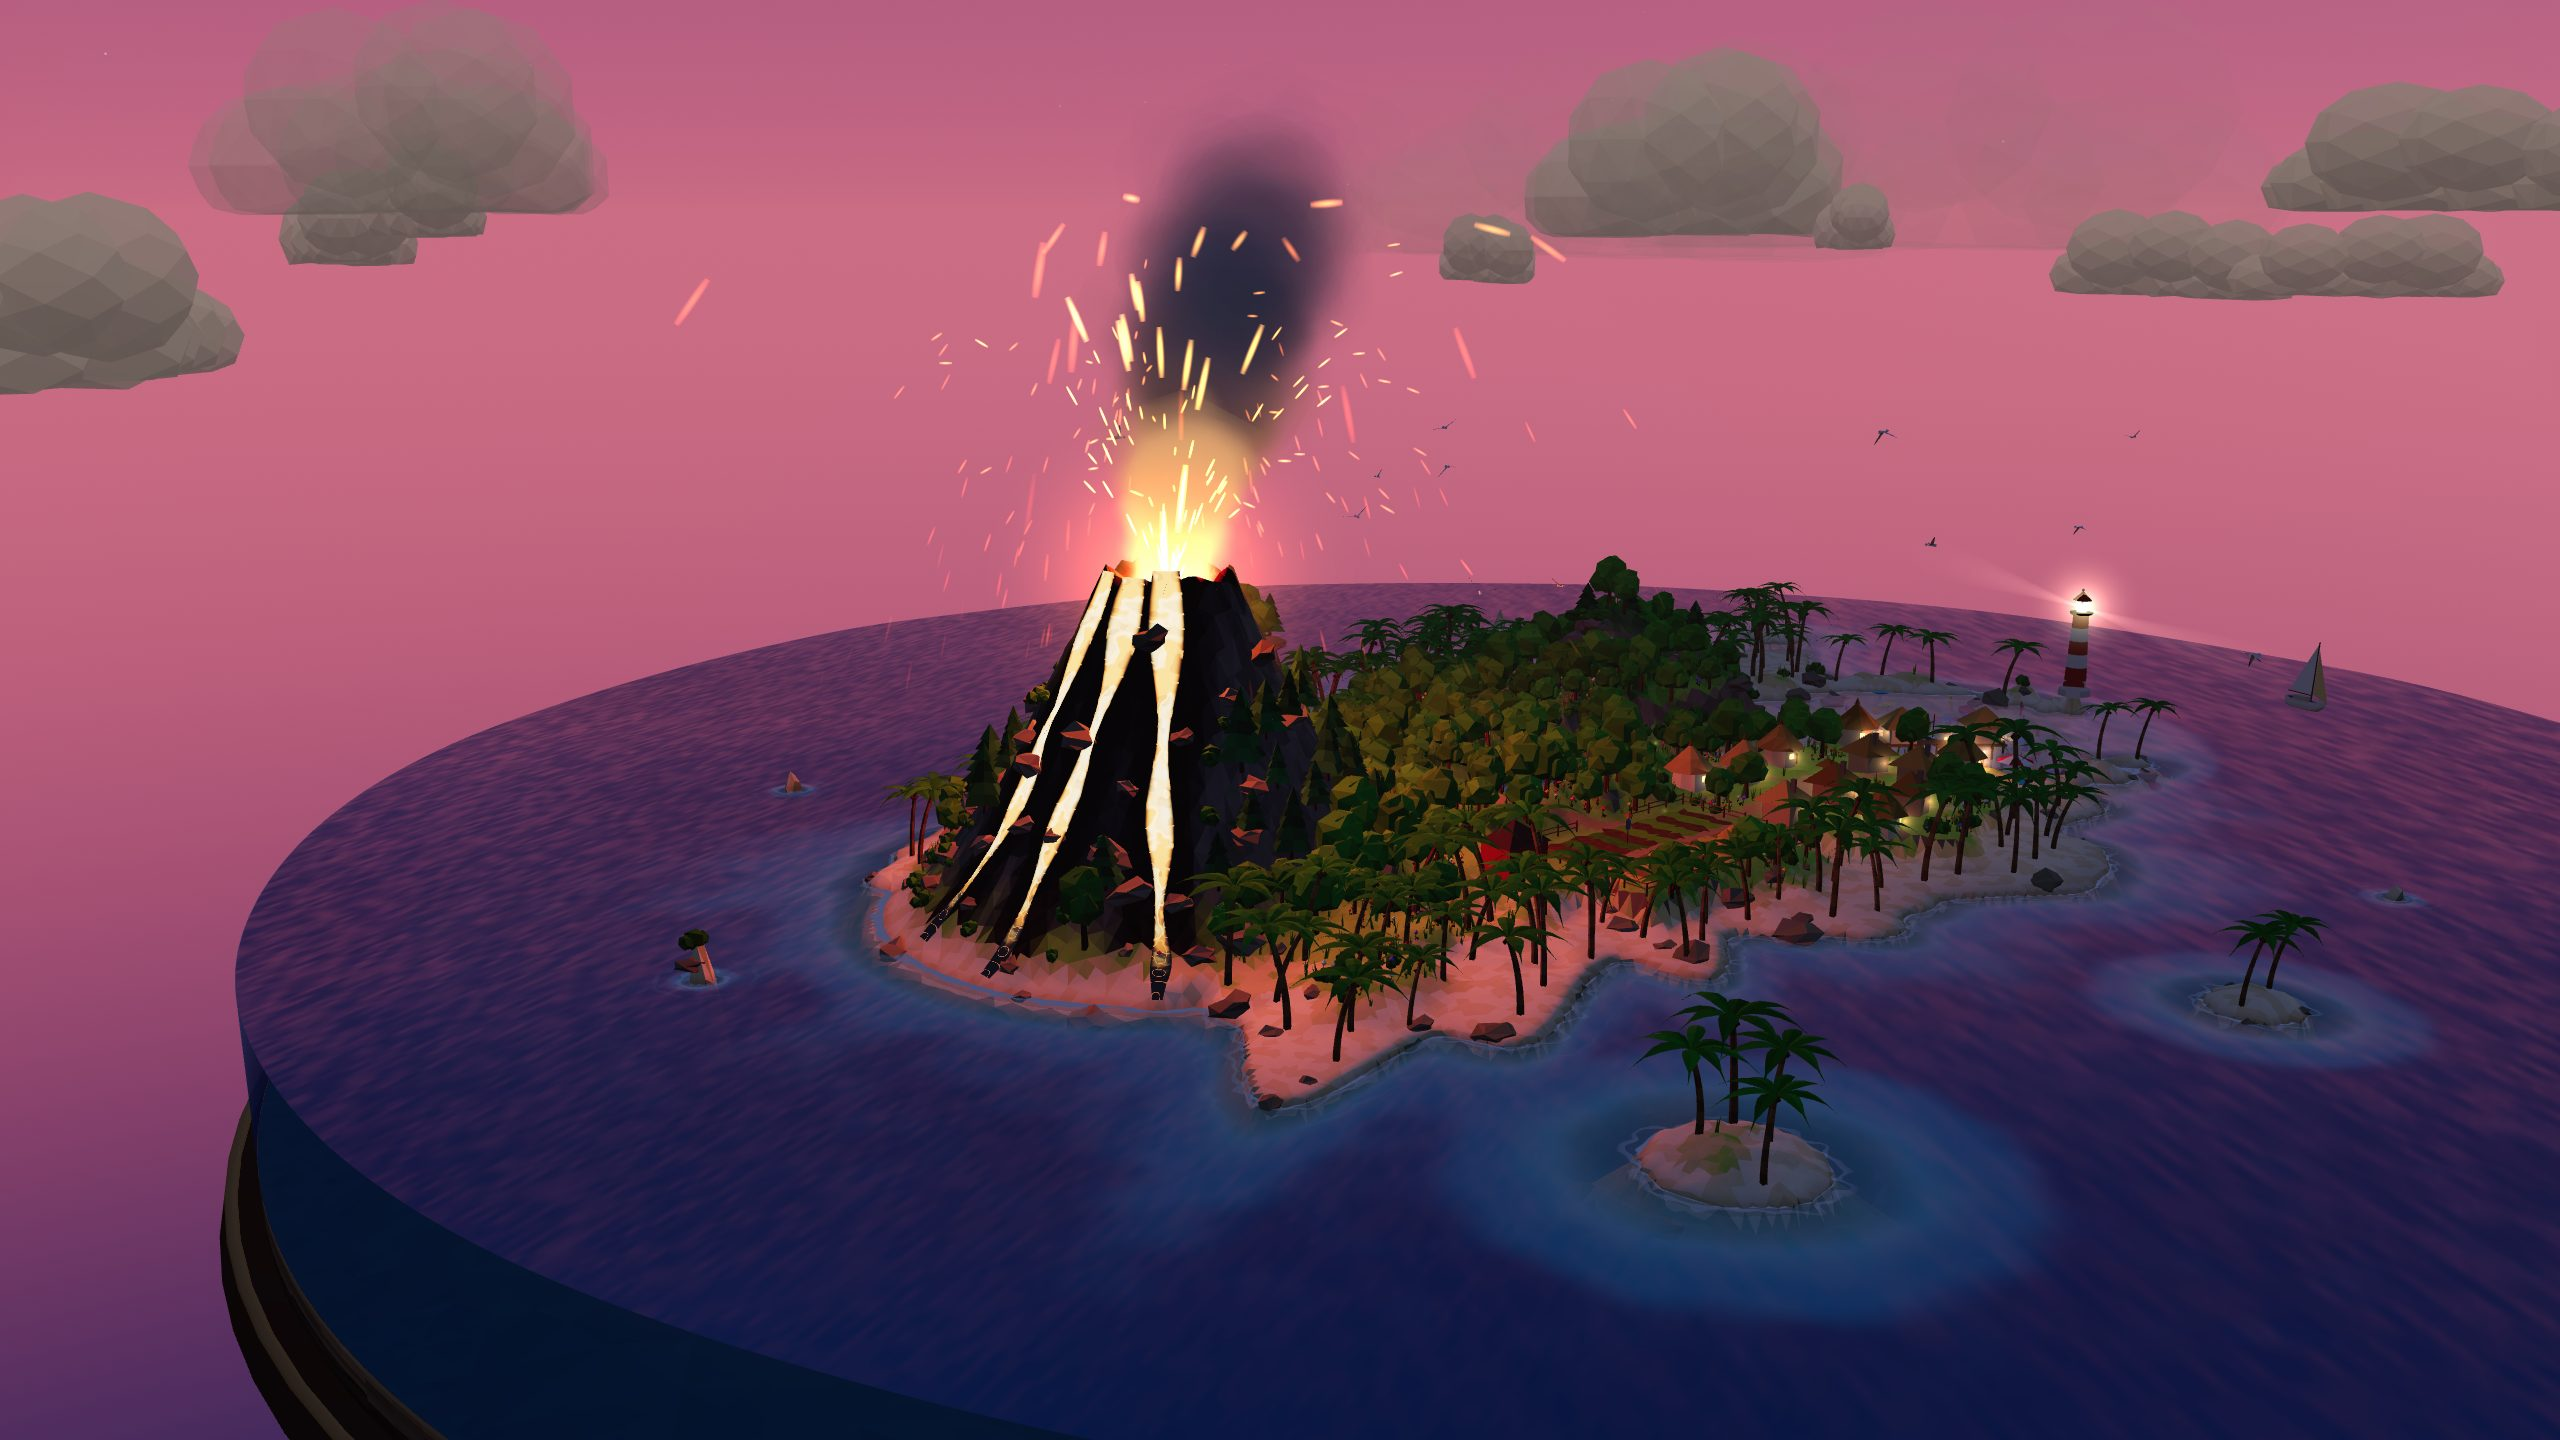
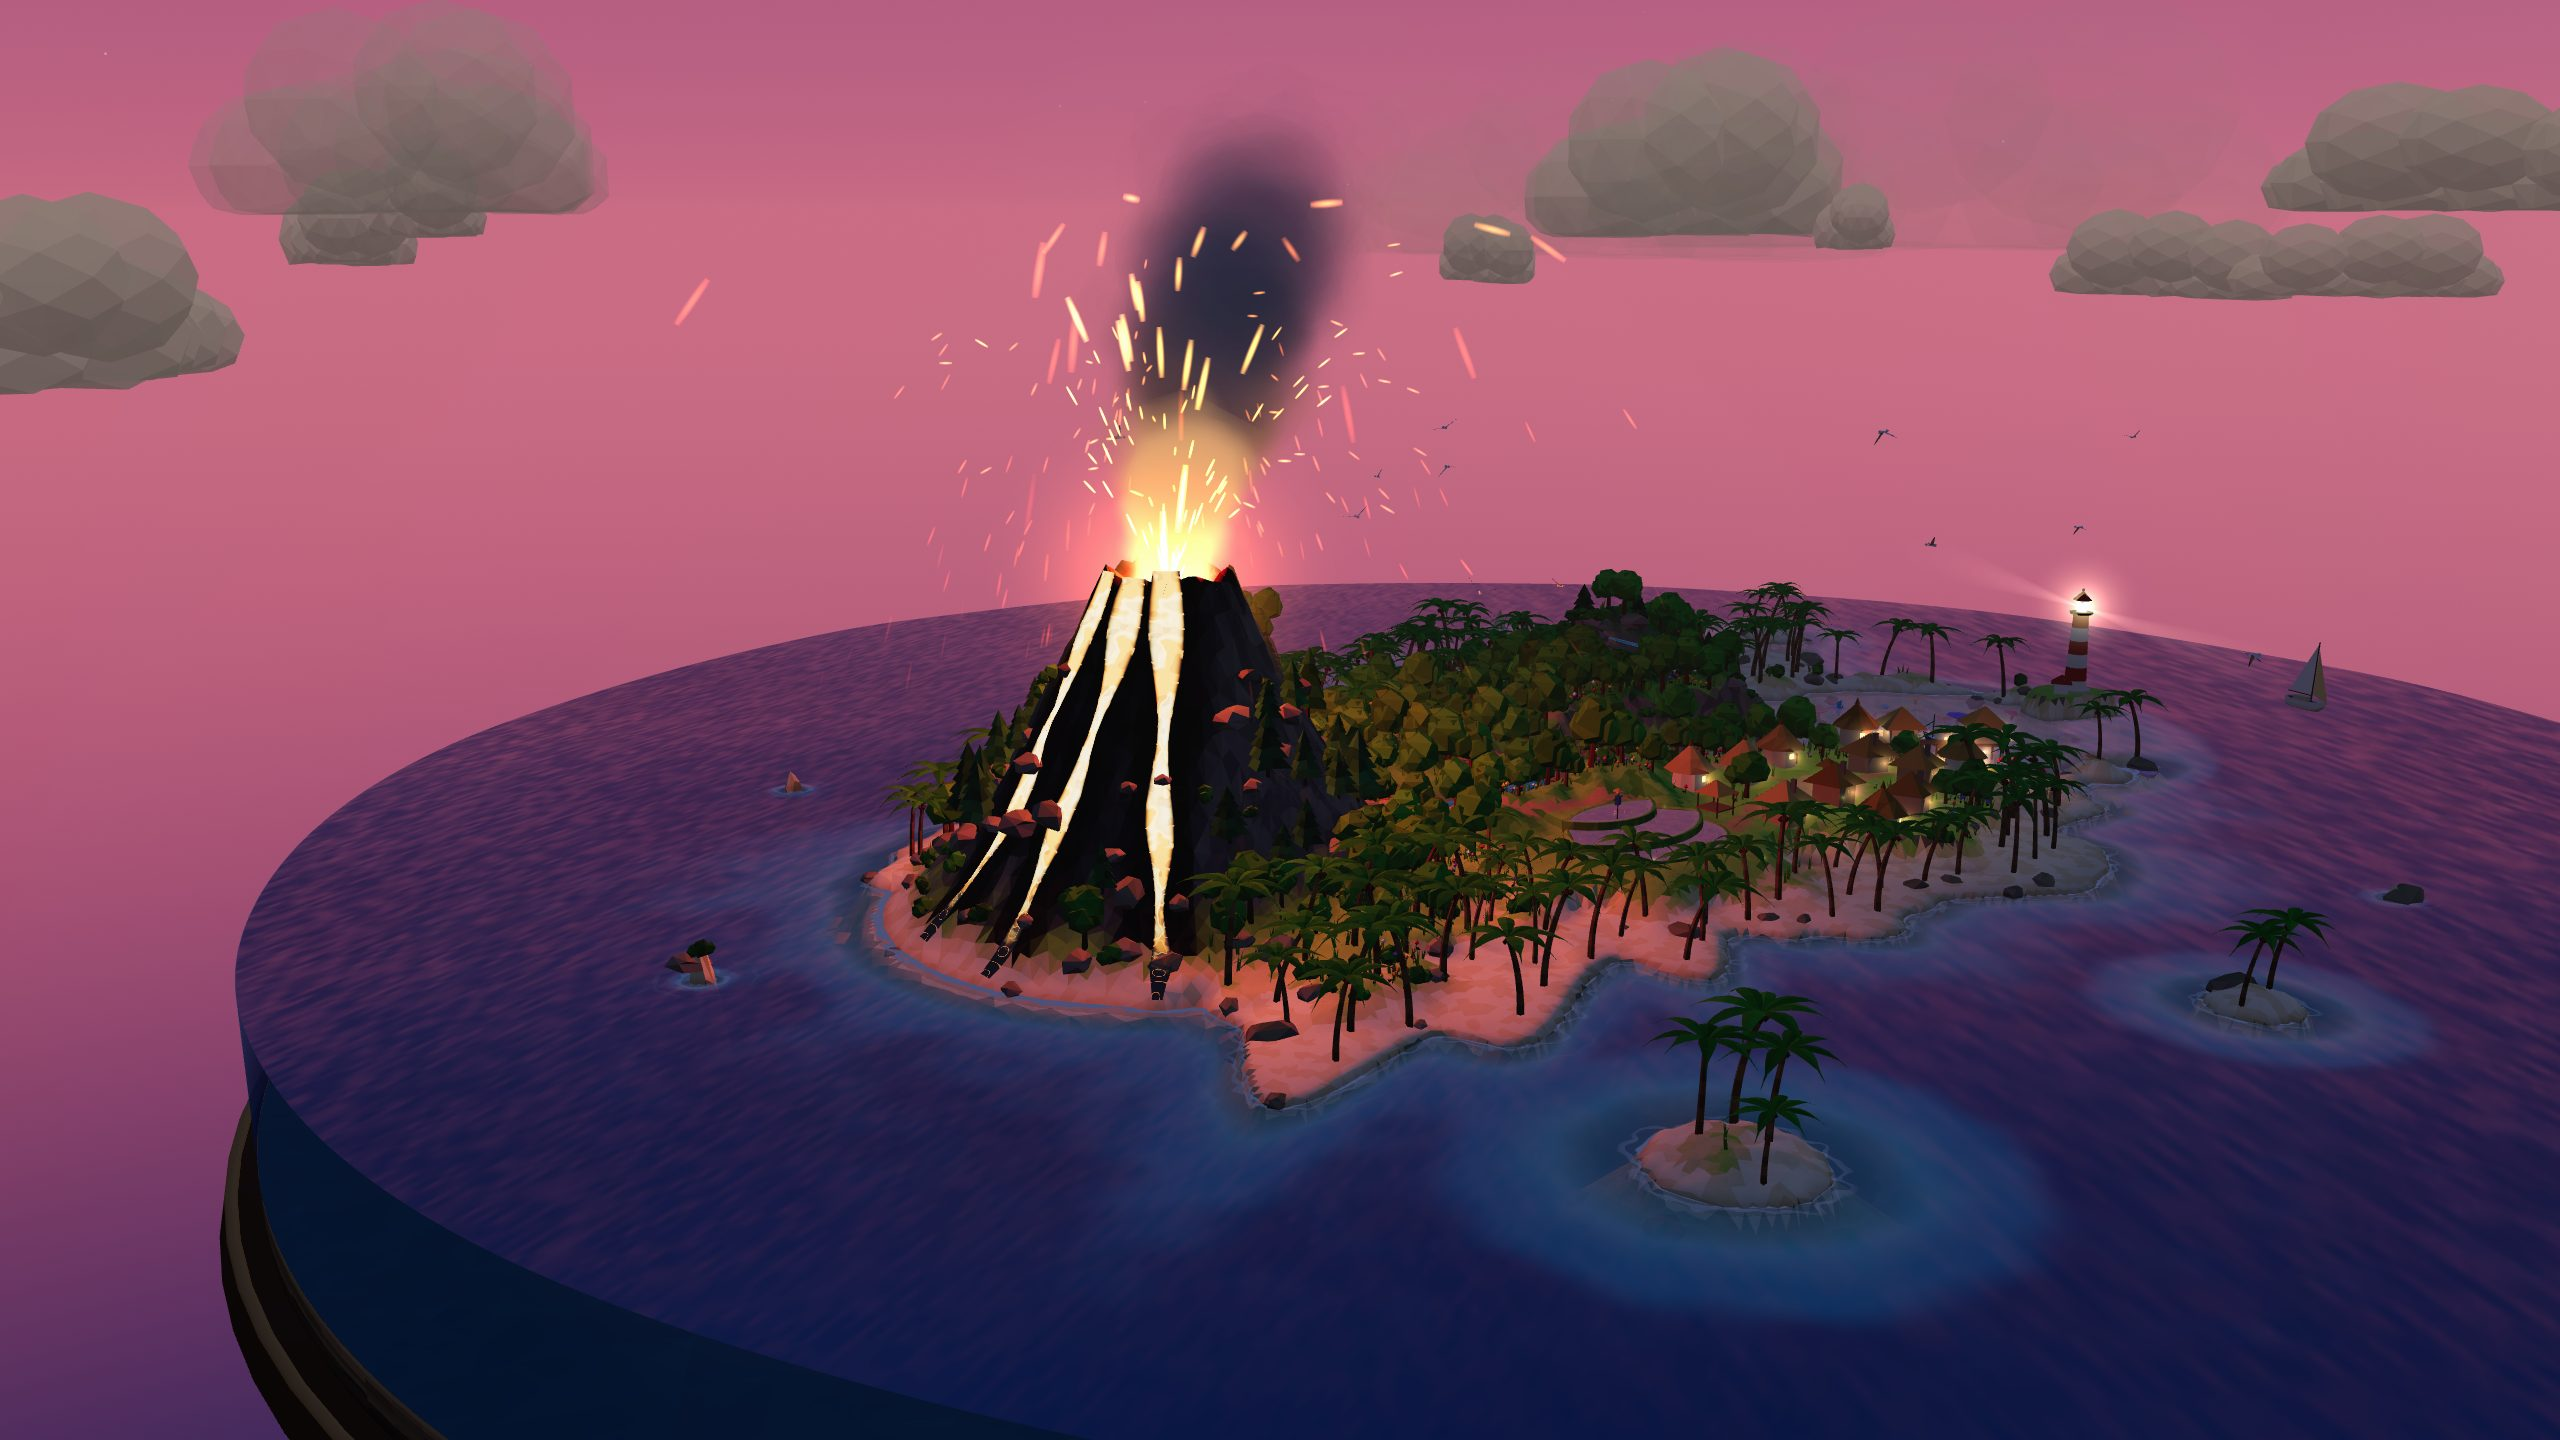
Docs and screenshots: terraced paddies and the lighthouse islet
README: the village now has three little terraced paddies (with ducks) and a
lighthouse on its own rocky islet instead of a farm patch. CLAUDE.md: the
paddies layout (Oe, sl, sr), the otiT* helpers, otiWa walls, the still water
in the river mesh (_f, aFade = 2, the vFade > 1.5 shader branch), paddyHut for
the Christmas lights, the lighthouse islet names, and the new load baseline
(about 438k triangles on High, 336k on Low). screenshots.mjs: correct the
landmark note (the plaza is at (4, 18); (-15, 16) was the farm). All nine
README pictures regenerated (2.4 MB).

Claude-Session: https://claude.ai/code/session_01Ta83QygFHV8hLu76fa9oAC

diff --git a/CLAUDE.md b/CLAUDE.md
@@ -37,11 +37,12 @@ A just-for-fun, procedural low-poly three.js island diorama (volcano, village, l
   | Name | What |
   |---|---|
   | `ye` | colour palette |
-  | `Qu` | terrain mesh; `te(x,z)` terrain height |
+  | `Qu` | terrain mesh; `te(x,z)` terrain height (baked by `Fx` from `Yu` plus rivers, lagoon, lighthouse islet and islets) |
+  | `Oe` / `sl` / `sr` | paddies layout (`x, z` centre, `a, b` ellipse half axes, `rot`, `h` lowest level, `n` levels, `s` step, `r` riser width, `R` arc centre uphill), world to field-local coordinates, footprint test |
   | `nf` | water and rim wall; `rr(x,z,t,sea)` wave height, the JS twin of GLSL `waveH` (string `Ku`): seven Stokes-shaped trains via `otiWv` (two near main swells that beat into sets, a cross swell, two wind seas, two chop trains growing with sea²). Keep the two identical: boats, ships and dolphins ride on `rr` |
   | `sf` / `of` | sky dome / clouds |
   | `cf` | vegetation |
-  | `uf` | village and boats (`ol` = hull helper, delegates to `__islandBoatHull`) |
+  | `uf` | village and boats (`ol` = hull helper, delegates to `__islandBoatHull`); also the paddies' walls, tufts, ducks, stepping stones, field hut (exported as `xmas.paddyHut` for the eave lights in `Mf`) and scarecrow |
   | `df` | volcano |
   | `mf` | wildlife (gulls, dolphins, fish, turtles) |
   | `Mf` | Christmas extras (sleigh and friends; the snowman lives in `uf`) |
@@ -53,7 +54,7 @@ A just-for-fun, procedural low-poly three.js island diorama (volcano, village, l
   | `Ri` | material patcher (snow/wet/wind shader hooks) |
 
   Helpers: `at` tint geometry, `Ue` merge geometries, `Ze` seeded rng, `ce` clamp, `xe` lerp, `Nt` smoothstep, `De` world radius (86).
-- Patched-in code uses `oti`-prefixed names (`otiP` plugin list, `otiU` plugin update, `otiF` per-frame shadow throttle + adaptive pixel ratio, `otiSlow`/`otiFT`/`otiAd`/`otiWarm` adaptive resolution state, `otiFS` fish schools, `otiAD`/`otiAR` aurora dice...). Realism pass: terrain `otiQ`/`otiL` (adaptive lattice), `otiV`/`otiG` (per-vertex normal + occlusion cache), land-first index order with the seabed left out of the shadow pass; `otiVG` vegetation vertex gradient; `otiGlow`/`otiPlaza` night plaza light pool uniforms; `otiDry` skips water cells under land. Some short names (`otiF`, `otiV`) are reused as locals in other scopes: grep with context. Use the same prefix for anything new so patches stay greppable.
+- Patched-in code uses `oti`-prefixed names (`otiP` plugin list, `otiU` plugin update, `otiF` per-frame shadow throttle + adaptive pixel ratio, `otiSlow`/`otiFT`/`otiAd`/`otiWarm` adaptive resolution state, `otiFS` fish schools, `otiAD`/`otiAR` aurora dice...). Realism pass: terrain `otiQ`/`otiL` (adaptive lattice), `otiV`/`otiG` (per-vertex normal + occlusion cache), land-first index order with the seabed left out of the shadow pass; `otiVG` vegetation vertex gradient; `otiGlow`/`otiPlaza` night plaza light pool uniforms; `otiDry` skips water cells under land. Paddies (three nested crescent pools in an ellipse): `otiTR` ring radius round the arc centre, `otiTQ` ellipse metric, `otiTK(k)` radius of riser wall k, `otiTH` stepped height used in `Yu`, `otiTD` signed footprint distance (blend apron, `sr`), `otiTW` field-local to world, `otiTP`/`otiTF` points on an arc / on the rim ellipse, `otiTT`/`otiTA` where an arc meets the rim, `otiTB(k,t)` uphill and downhill edge of pool k; `otiWa` builds a plump wall along a polyline in `uf` (`otiR` its rng); the still water is one sheet per pool appended to the river mesh in `_f` with `aFade = 2`, shaded in the river shader's `vFade > 1.5` branch (rivers keep `aFade` 0..1 and their old code path). Lighthouse islet in `Fx`: `otiLD`/`otiLT` (flat top, kept out of the lagoon gap). Some short names (`otiF`, `otiV`) are reused as locals in other scopes: grep with context. Use the same prefix for anything new so patches stay greppable.
 
 - Camera (`l` = OrbitControls in `jx`): pan over the ground (right-drag, two fingers, arrows on the focused canvas), tilt 0.02–1.5 rad, distance `max(6, q*.03)`–`q*1.7`, pivot within 70 of the default `(-1, 2.5, 3)` (`l.cursor`, `l.maxTargetRadius`). `otiCam` (set by user input, cleared by `setCamera`/`reset`) makes the pivot ride the ground (`max(te,0)+otiCamK`) and eases the camera up to terrain + 9.5 over land (`otiCamH`/`otiCamU`); the hard floor at terrain + 3.5 applies to every camera. `otiHome` is the reset view (double-click/double-tap via `otiTap*`, Home key). Scripted cameras are unaffected.
 
@@ -93,7 +94,7 @@ Also `worldRadius` (`De`), `scene`, `camera`, `controls`, `state`, `toast(msg)` 
 - Chromium flags: `--use-gl=angle --use-angle=swiftshader --enable-unsafe-swiftshader --ignore-gpu-blocklist`. Playwright may be installed globally (`npm root -g`); do not add it to the repo.
 - Pause the page's own loop with an init script that wraps `requestAnimationFrame` and checks a `window.__pauseLoop` flag (see `scripts/screenshots.mjs`), then drive time with `__island.step(dt, n)` (runs n simulation steps, renders once).
 - Useful API: `setWeather(name, instant)`, `setTime(h)`, `setSpeed`, `setAuto`, `setDayCycle`, `setAutoRotate`, `erupt()`, `setSnowCover`, `setCamera(az, el, distScale, tx, ty, tz)` (elevation 0.07 to 1.55 rad, was 0.21 to 1.39; distance clamped to `max(6, 3%)`–170% of the default, was `max(20, 8.5%)`–145%), `reset()`, `info()`, `ui.setOpen/setHidden/showToast`, `setAdaptiveResolution(false)`, `ships.summon()`, `ships.state()`.
-- Baseline from `info()` at load (1280x720): **54 draw calls, about 440k triangles on High (about 338k on Low)**. Ships add at most 8 calls.
+- Baseline from `info()` at load (1280x720): **54 draw calls, about 438k triangles on High (about 336k on Low)**. Ships add at most 8 calls.
 - Budget rule: a change must not raise draw calls, triangles, programs, textures or vertex-buffer bytes at load, on High or Low.
 - Collect `console` errors/warnings and `pageerror`; a clean run has none.
 - Swiftshader is slow: step in chunks, and give `page.screenshot` a long timeout (new effects compile shaders on first sight).

diff --git a/README.md b/README.md
@@ -11,7 +11,7 @@ A tiny procedural 3D island diorama that lives in a single HTML file. Open it, d
 - **Eight weathers**: clear, partly cloudy, overcast, fog, rain, thunderstorm (with lightning), gale and snow. Left alone, the island picks its own weather every so often.
 - **Day and night**: the sun, moon and stars move on their own, sunsets glow, the village lights come on after dark, and some nights bring an aurora.
 - **A sleepy volcano** that smokes all day and erupts now and then, or whenever you press Erupt.
-- **A little village** with huts, a farm patch, a jetty, a lighthouse and a waterfall.
+- **A little village** with huts, three little terraced paddies whose still water mirrors the sky (ducks included), a jetty, a lighthouse on its own rocky islet and a waterfall.
 - **Wildlife**: seagulls, leaping dolphins, schools of tropical fish in the lagoon and sea turtles.
 - **Snow that settles**: a real snowfall whitens the whole island and freezes the sea, and a snowy night hides a small Christmas surprise.
 - **Boats** bobbing and rolling on the same waves the water shader draws.
